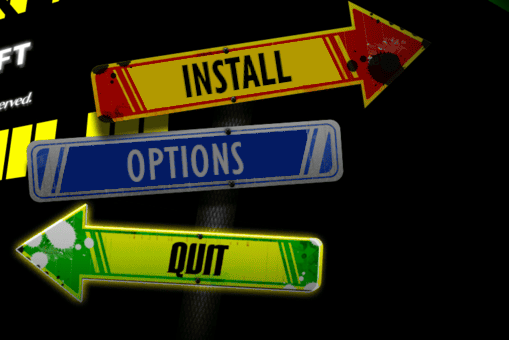
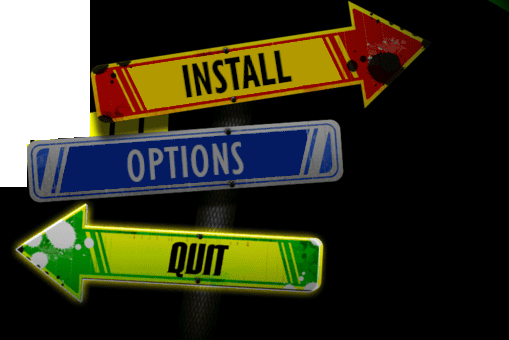
Fixed window not taking into account scaling size of the screen

Changed region(s): [[0.0, 0.0, 0.1768, 0.5588]]

diff --git a/src/style.css b/src/style.css
@@ -10,8 +10,8 @@ video{
 
 #install_selected_image{
     position: fixed;
-    bottom: 2;
-    right: 3;
+    bottom: 1;
+    right: 2;
 }
 
 #options_selected_image{

diff --git a/window.py b/window.py
@@ -2,13 +2,14 @@ import webview
 from lib import resource_path
 from api import Api
 from ctypes import windll
+windll.user32.SetProcessDPIAware()
 
 def get_window_border_size():
     user32 = windll.user32
     screen = user32.GetSystemMetrics
-    border_width = screen(32)  # Ancho del borde
-    border_height = screen(33)  # Alto del borde
-    title_bar_height = screen(4)  # Altura de la barra de título
+    border_width = screen(32)
+    border_height = screen(33)
+    title_bar_height = screen(4)
     return border_width * 2, border_height * 2 + title_bar_height
 
 def start_gui():
